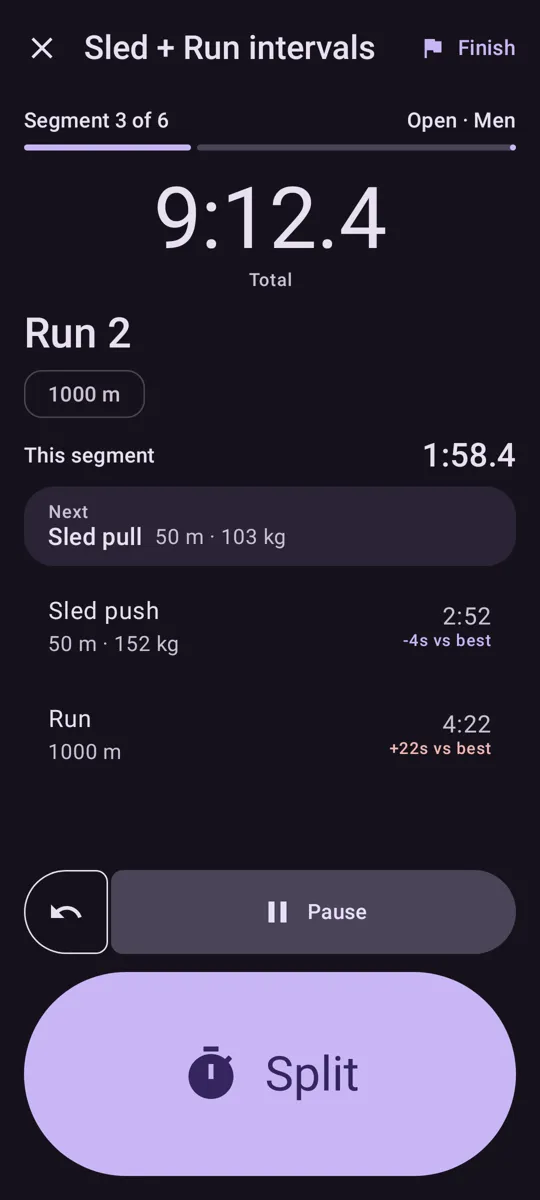
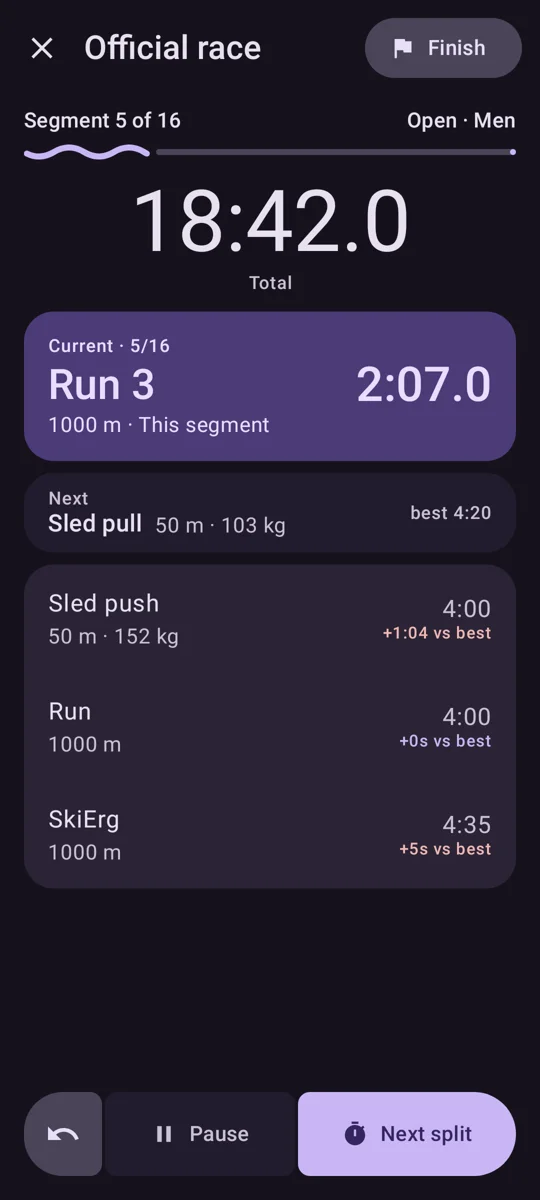
Updated for version 2.1.7

diff --git a/help/index.html b/help/index.html
@@ -21,7 +21,7 @@
 </head>
 <body>
   <h1>How to use Liftloq</h1>
-  <p class="meta">Local workout calendar · No account required · Updated for version 2.1.6</p>
+  <p class="meta">Local workout calendar · No account required · Updated for version 2.1.7</p>
 
   <p>Liftloq keeps your workout plan on your device. Mark days on the calendar, manage workout types, plan and time HYROX workouts, and optionally track supplement spending — without signing in.</p>
 
@@ -29,7 +29,7 @@
   <ol class="steps">
     <li>Open <strong>Calendar</strong> (home).</li>
     <li>Tap a day (or the add button). The day sheet has collapsible <strong>Bodybuilding</strong>, <strong>HYROX workouts</strong> and <strong>Notes</strong> sections.</li>
-    <li>Pick up to <strong>three</strong> entries in total (Bodybuilding types and HYROX workouts combined). At 3, the other picks are disabled until you deselect one.</li>
+    <li>Pick up to <strong>three</strong> entries in total (Bodybuilding types and HYROX workouts combined). At 3, the other picks are disabled until you deselect one. HYROX rows have a checkbox: a picked row says <strong>Tap to unselect</strong>; tap it again to remove it.</li>
     <li>Tap <strong>Save</strong>. Nothing is stored until you save.</li>
     <li>The day shows one colour band per entry: Bodybuilding first, then HYROX.</li>
   </ol>
@@ -39,8 +39,8 @@
     <figcaption>Calendar: tap a day to open it. Each day shows up to 3 colour bands; names appear with 1–2 entries.</figcaption>
   </figure>
   <figure>
-    <img src="images/help-day-sheet.webp" alt="Day sheet with 3 of 3 entries picked" loading="lazy" width="540" height="1200" />
-    <figcaption>Day sheet at the limit: 3 of 3 picked, the rest is disabled.</figcaption>
+    <img src="images/help-day-sheet.webp" alt="Day sheet with HYROX checkboxes" loading="lazy" width="540" height="1200" />
+    <figcaption>Day sheet: HYROX workouts with checkboxes; the picked one shows <strong>Tap to unselect</strong>. At 3 of 3 picked, the rest is disabled.</figcaption>
   </figure>
   <h2>2. Add and remove Bodybuilding types</h2>
   <ol class="steps">
@@ -60,6 +60,7 @@
     <li>Tap <strong>+</strong> to add a purchase (name, price, date), then tap <strong>Save</strong>.</li>
     <li>Set currency under <strong>Settings</strong> (same menu).</li>
     <li>See <strong>Total spent on supplements</strong> and the <strong>Money burnt</strong> list.</li>
+    <li>Don't need it? Turn off <strong>Supps money pit</strong> in Settings → <strong>Modes</strong>; the page leaves the menu and the swipe cycle, and your purchases are kept.</li>
   </ol>
 
   <figure>
@@ -73,7 +74,7 @@
     <li><strong>Delete:</strong> on the HYROX list, tap the red trash on a workout (or Delete inside the editor). Confirm — sessions are removed and the workout is cleared from every calendar day. Official race is not re-seeded after you delete it.</li>
     <li><strong>Plan it:</strong> on a day sheet, open <strong>HYROX workouts</strong> and pick one or more, then <strong>Save</strong>.</li>
     <li><strong>Start HYROX:</strong> on a day with a planned HYROX workout, a <strong>Start HYROX</strong> button appears above the add button. With several planned, it opens a menu to choose one.</li>
-    <li><strong>Race mode:</strong> tap <strong>Split</strong> at the end of each segment. <strong>Pause</strong> freezes the clock (paused time is not counted), <strong>Resume</strong> continues, the undo button removes the last split. <strong>Finish</strong> (top bar) asks for confirmation. Then review and <strong>Save</strong>; results show with an <strong>OK</strong> button back to the calendar.</li>
+    <li><strong>Race mode:</strong> a wavy progress bar and the big total sit on top, then a <strong>Current</strong> card (segment and its time), a <strong>Next</strong> card (with your best split when known) and your last laps vs best. Tap <strong>Next split</strong> at the end of each segment. <strong>Pause</strong> freezes the clock (paused time is not counted; the wave goes flat), <strong>Resume</strong> continues, the undo button removes the last split. All three sit in one connected row at the bottom. <strong>Finish</strong> (top bar) asks for confirmation. Then review and <strong>Save</strong>; results show with an <strong>OK</strong> button back to the calendar.</li>
     <li><strong>Stats:</strong> Stats → <strong>HYROX β</strong> shows History (tap a session for its results), best splits and station decay.</li>
   </ol>
 
@@ -104,11 +105,11 @@
   </figure>
   <figure>
     <img src="images/help-race-running.webp" alt="Race mode running" loading="lazy" width="540" height="1200" />
-    <figcaption>Race mode: total time, current segment, next segment and recent laps vs your best.</figcaption>
+    <figcaption>Race mode: wavy progress, total, Current and Next cards, recent laps vs your best; Undo · Pause · Next split at the bottom.</figcaption>
   </figure>
   <figure>
     <img src="images/help-race-paused.webp" alt="Race mode paused" loading="lazy" width="540" height="1200" />
-    <figcaption>Paused: the clock is frozen and Split is disabled until you Resume.</figcaption>
+    <figcaption>Paused: the clock is frozen, the wave is flat and Next split is disabled until you Resume.</figcaption>
   </figure>
   <figure>
     <img src="images/help-results.webp" alt="HYROX results after saving" loading="lazy" width="540" height="1200" />
@@ -121,13 +122,13 @@
   <h2>5. Settings: sections and toggles</h2>
   <ol class="steps">
     <li>Menu (☰) → <strong>Settings</strong>. Sections: <strong>General</strong> (language, currency, motivation quote), <strong>Modes</strong>, <strong>Workout plan</strong> and <strong>About</strong>.</li>
-    <li><strong>Modes:</strong> turn <strong>Bodybuilding</strong> or <strong>HYROX (beta)</strong> off to hide everything for that mode (calendar entries, legend, stats, menu pages). Nothing is deleted; turning it back on restores it. One of the two must stay on.</li>
+    <li><strong>Modes:</strong> turn <strong>Bodybuilding</strong> or <strong>HYROX (beta)</strong> off to hide everything for that mode (calendar entries, legend, stats, menu pages). Nothing is deleted; turning it back on restores it. One of the two must stay on. <strong>Supps money pit</strong> has its own switch, separate from that rule: off hides the Supps page from the menu and swipe cycle (purchases are kept).</li>
     <li>A language change is applied when you tap <strong>Save</strong> (bottom right).</li>
   </ol>
 
   <figure>
-    <img src="images/help-settings.webp" alt="Settings with General and Modes sections" loading="lazy" width="540" height="1200" />
-    <figcaption>Settings: General and Modes.</figcaption>
+    <img src="images/help-settings.webp" alt="Settings Modes section with three switches" loading="lazy" width="540" height="1200" />
+    <figcaption>Settings → Modes: Bodybuilding, HYROX (beta) and Supps money pit.</figcaption>
   </figure>
   <figure>
     <img src="images/help-settings-end.webp" alt="Settings with Workout plan and About sections" loading="lazy" width="540" height="1200" />
